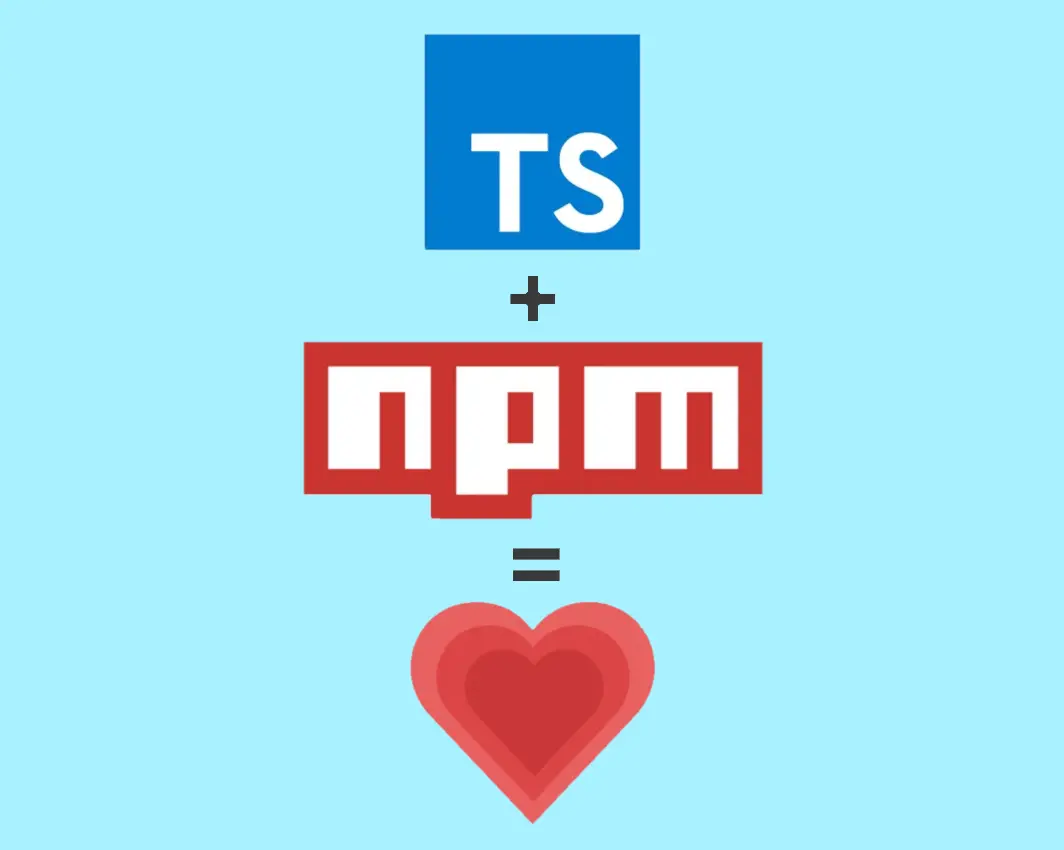
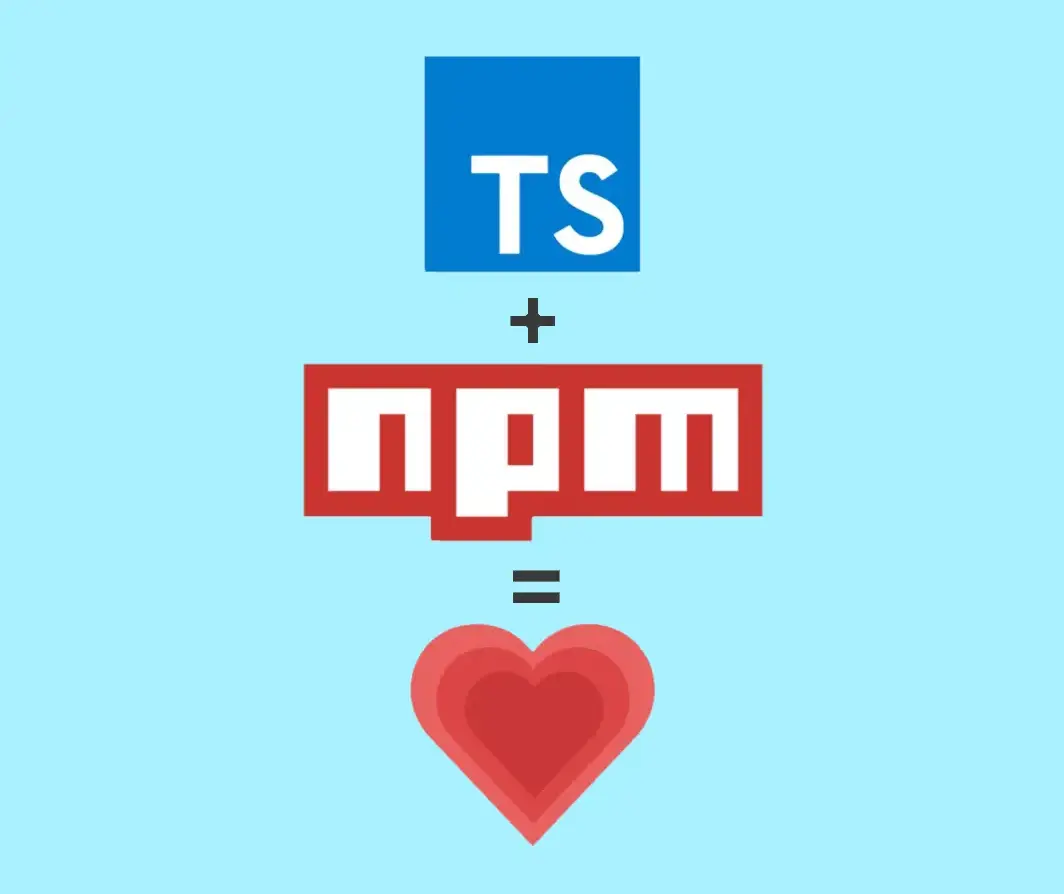
takout blog, resize img, update react to-do

diff --git a/index.html b/index.html
@@ -805,7 +805,7 @@
                             <!------===== project item end =====------->
 
                             <!------===== project item start =====------->
-                            <div class="projects-item padd-15">
+                            <!-- <div class="projects-item padd-15">
                                 <div class="projects-item-inner shadow-dark">
                                     <div class="projects-img">
                                         <a class="a-link nope" href="#blog">
@@ -813,7 +813,7 @@
                                         </a>
                                     </div>
                                 </div>
-                            </div>
+                            </div> -->
                             <!------===== project item end =====------->
 
                             <!------===== project item start =====------->
@@ -1390,18 +1390,18 @@
                     <div class="row">
                         <div class="portfolio-example-text padd-15">
                             <h3>A challenge with React</h3>
-                            <p id="phide" class="opacity100">This started off as a coding-challenge during my studies.
-                                It was about creating a simple react-app where we practiced the correct use of <a
+                            <p id="phide" class="opacity100">
+                                This project started as a coding challenge during my studies. The task was to create a
+                                simple React app, focusing on the correct use of <a
                                     href="https://reactjs.org/docs/components-and-props.html" target="_blank"
                                     rel="noopener noreferrer">props</a> and the <a
                                     href="https://www.w3schools.com/react/react_es6_spread.asp" target="_blank"
-                                    rel="noopener noreferrer">spread operator</a>.
-                                I love using React, finally I have something that is instant and doesn't require refresh
-                                or redirect. That is the reason why, after completing the challenge, I wanted to take
-                                this further and have a back-end for it. The idea of CRUD started to appear to me and
-                                eventually this project was the base for it. This app has never been deployed, but with
-                                the help of embedding I'm still able to share it with you. Please click the button to
-                                see.
+                                    rel="noopener noreferrer">spread operator</a>. I love working with React because it
+                                provides instant updates without needing a page refresh or redirect. After completing
+                                the challenge, I wanted to take it further by adding a back-end. This project actually
+                                inspired me to build a CRUD app later on. While the app hasn`t been deployed, I`m still
+                                able to share it with you through an embedded preview. Please click the button to check
+                                it out.
                             </p>
 
                         </div>
@@ -1429,7 +1429,7 @@
             <!------===== project example 7 section end =====------->
 
             <!------===== project example 8 section start =====------->
-            <section class="portfolio-example section s-link" id="blog">
+            <!-- <section class="portfolio-example section s-link" id="blog">
                 <div class="container">
                     <div class="row">
                         <div class="section-title padd-15">
@@ -1495,7 +1495,7 @@
                         </div>
                     </div>
                 </div>
-            </section>
+            </section> -->
             <!------===== project example 8 section end =====------->
 
             <!------===== project example 9 section start =====------->
